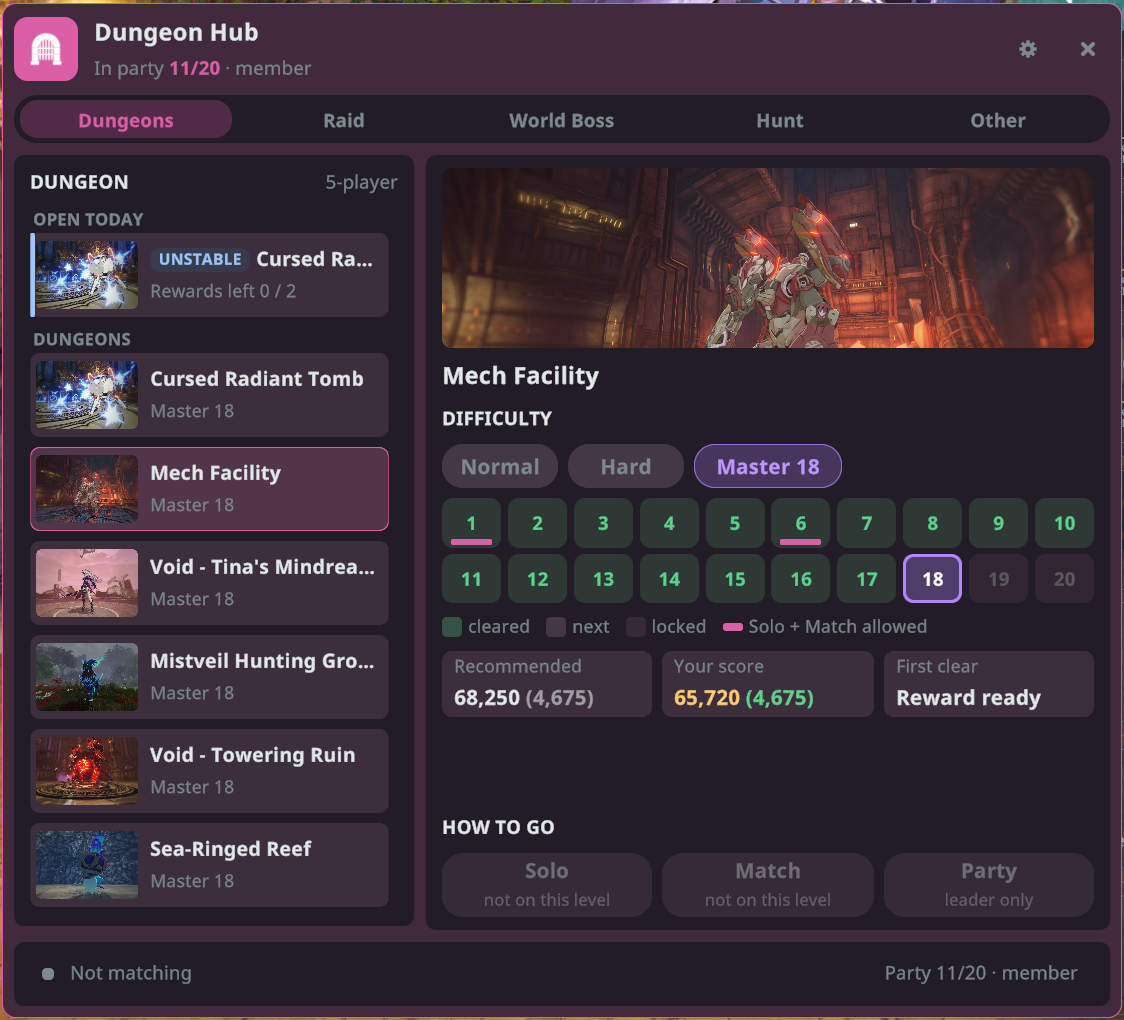
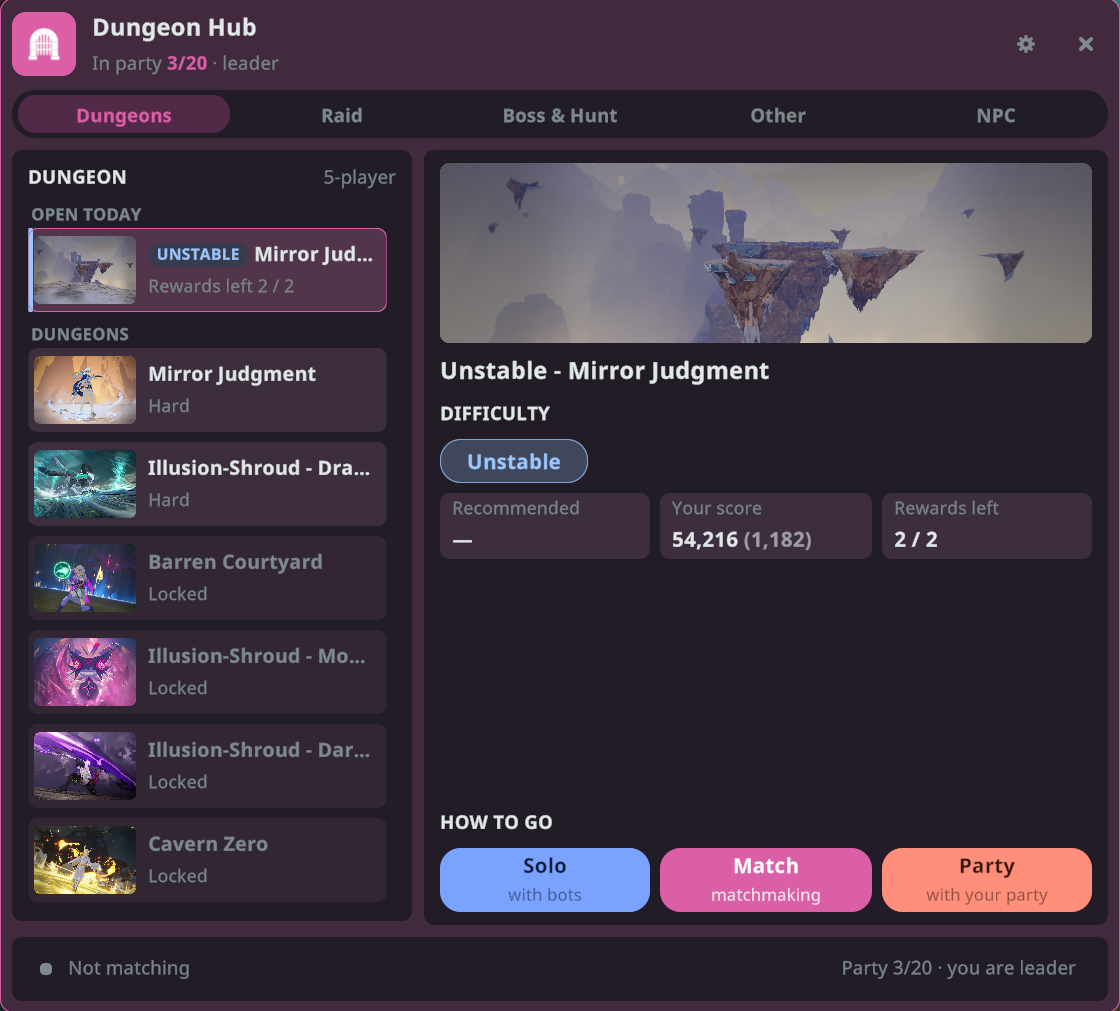
dungeonhub 1.1.0 — NPC tab, Boss & Hunt tab, 'Not this season' (#142)
* dungeonhub 1.1.0: NPC tab, Boss & Hunt tab, 'Not this season', Filipino wording (guides + media)

* dungeonhub 1.1.0: pin v1.1.0 (d443b4c)

diff --git a/plugins/dungeonhub/guide.th.md b/plugins/dungeonhub/guide.th.md
@@ -17,7 +17,7 @@
 
 ## เลือกดันเจี้ยน
 
-ศูนย์ดันเจี้ยนมี 5 แท็บ: **ดันเจี้ยน**, **เรด**, **เวิลด์บอส**, **ล่า** และ **อื่นๆ**
+ศูนย์ดันเจี้ยนมี 5 แท็บ: **ดันเจี้ยน**, **เรด**, **บอส & ล่า**, **อื่นๆ** และ **NPC**
 
 **ดันเจี้ยน**
 
@@ -47,12 +47,26 @@
 
 ปุ่มที่ใช้ไม่ได้ในตอนนี้จะเป็นสีเทา และมีบรรทัดด้านล่างบอกเหตุผล เช่น "ไม่ได้อยู่ในปาร์ตี้" หรือ "ต้องมีสมาชิก 3 คนขึ้นไป (มี 1) - ใช้จับคู่" เมื่ออยู่ในปาร์ตี้ มีแค่หัวหน้าปาร์ตี้ที่เริ่มเข้าดันเจี้ยนหรือเริ่มจับคู่ได้
 
-## เวิลด์บอส ล่า และอื่นๆ
+## บอส & ล่า และอื่นๆ
 
-- **เวิลด์บอส**: บอสของสัปดาห์นี้ รางวัลคงเหลือ อีเวนต์เปิดอยู่หรือไม่ และจะเปิดครั้งถัดไปเมื่อไร เวิลด์บอสใช้ได้เฉพาะ **จับคู่**
-- **ล่า**: การล่ารายสัปดาห์และ **ล่ากิลด์** เข้าล่ากิลด์จากที่นี่ได้เลย (ปกติหรือยาก, **เดี่ยว** หรือ **ปาร์ตี้**) เมื่อเปิดอยู่และคุณอยู่ในกิลด์
+- **บอส & ล่า**:
+  - **World Boss Crusade**: บอสของสัปดาห์นี้ รางวัลคงเหลือ อีเวนต์เปิดอยู่หรือไม่ และจะเปิดครั้งถัดไปเมื่อไร เวิลด์บอสใช้ได้เฉพาะ **จับคู่**
+  - **Stimen Vaults**: การล่ารายสัปดาห์
+  - **ล่ากิลด์**: เข้าจากที่นี่ได้เลย (ปกติหรือยาก, **เดี่ยว** หรือ **ปาร์ตี้**) เมื่อเปิดอยู่และคุณอยู่ในกิลด์
 - **อื่นๆ**: อันดับแรกคือ **งานสำนัก** รับเควสต์รายวัน ดูกิจกรรมของวันนี้และจำนวนที่ทำเสร็จแล้ว และกด **เข้า** กิจกรรมได้โดยตรง ปุ่ม **ไปที่บอร์ด** จะพาคุณไปที่บอร์ดของสำนักผู้บุกเบิก
 - กิจกรรมอื่นๆ มีปุ่ม **เปิด** ที่พาไปยังหน้าของกิจกรรมนั้นในเกม
+- กิจกรรมที่ไม่มีให้เล่นในซีซันนี้ (เช่น Slumberdream Valley) จะเป็นสีเทาและแสดงว่า **ไม่มีในซีซันนี้** และจะกลับมาเองเมื่อซีซันใหม่เพิ่มกิจกรรมนั้นอีกครั้ง
+
+## NPC
+
+![แท็บ NPC](media/npc.png)
+
+ใช้บริการของ NPC ได้จากทุกที่ โดยไม่ต้องเดินไปหา
+
+- เลือก NPC ทางซ้าย บริการแต่ละอย่างของ NPC นั้นจะมีปุ่ม **เปิด** ของตัวเองทางขวา
+- **ค้นหา NPC…** ด้านบนใช้หา NPC จากชื่อหรือจากสิ่งที่ NPC ทำ (เช่น "อุปกรณ์") กด **✕** เพื่อล้างการค้นหา
+- **ปักหมุด** จะย้าย NPC ไปไว้ในกลุ่ม **ปักหมุดไว้** ด้านบนสุดของรายการ พร้อมเครื่องหมาย ★ กด **ปักหมุดแล้ว** เพื่อเลิกปักหมุด หมุดของคุณจะถูกบันทึกไว้
+- บริการจากอีเวนต์จำกัดเวลาจะแสดงเฉพาะตอนที่อีเวนต์นั้นจัดอยู่ ถ้าบริการใดใช้ไม่ได้ในตอนนี้ จะมีข้อความบอกเหตุผล
 
 ## ยืนยันเข้าดันเจี้ยน
 
@@ -100,4 +114,5 @@
 ## หมายเหตุ
 
 - ศูนย์ดันเจี้ยนเปิดได้เฉพาะตอนที่คุณอยู่ในโลกของเกม และหน้าต่างจะปิดเมื่อคุณล็อกเอาต์
+- ระหว่างที่ศูนย์ดันเจี้ยนเปิดอยู่ เคอร์เซอร์เมาส์จะใช้งานได้อิสระ คุณจึงคลิกได้โดยไม่ต้องกดปุ่มค้างไว้
 - ถ้าหน้าต่างเล็กแสดงคำขอเข้าดันเจี้ยนไม่ได้ หน้าจอยืนยันของเกมจะปรากฏตามปกติ

diff --git a/plugins/dungeonhub/guide.fil.md b/plugins/dungeonhub/guide.fil.md
@@ -20,7 +20,7 @@ ginamit.
 
 ## Pagpili ng dungeon
 
-May limang tab ang hub: **Mga Dungeon**, **Raid**, **World Boss**, **Pangangaso** at **Iba pa**.
+May limang tab ang hub: **Mga Dungeon**, **Raid**, **Boss at Pangangaso**, **Iba pa** at **NPC**.
 
 **Mga Dungeon**
 
@@ -41,7 +41,7 @@ May limang tab ang hub: **Mga Dungeon**, **Raid**, **World Boss**, **Pangangaso*
 - **Inirerekomenda**: ang score na inirerekomenda ng laro para sa hirap na ito.
 - **Iyong score**: berde kapag naabot mo ang rekomendasyon, dilaw kapag kulang pa.
 - **Unang clear**: kung naghihintay pa ang premyo ng unang clear (**Handang kunin**) o **Nakuha na**.
-- **Premyo**: ilang beses ka pang may makukuhang premyo. Kahit 0 na, puwede ka pa ring pumasok, wala ka lang
+- **Natitirang premyo**: ilang beses ka pang may makukuhang premyo. Kahit 0 na, puwede ka pa ring pumasok, wala ka lang
   makukuhang premyo.
 
 ## Paano pumasok
@@ -57,16 +57,34 @@ Kulay-abo ang button kapag hindi ito magagamit ngayon, at sinasabi ng linya sa i
 "wala sa party" o "kailangan ng 3+ sa party (may 1 ka) - gamitin ang Match". Sa isang party, ang leader lang ang
 puwedeng magsimula ng pagpasok o ng Match.
 
-## World Boss, Pangangaso at Iba pa
+## Boss at Pangangaso at Iba pa
 
-- **World Boss**: ang boss ngayong linggo, natitirang premyo mo, kung bukas ang event at kailan ito susunod na
-  bubukas. **Match** lang ang puwede sa World Boss.
-- **Pangangaso**: ang lingguhang hunt at ang **Guild Hunt**. Puwedeng pasukin ang Guild Hunt mula rito (Normal o
-  Mahirap, **Solo** o **Party**) habang bukas ito at nasa guild ka.
+- **Boss at Pangangaso**:
+  - **World Boss Crusade**: ang boss ngayong linggo, natitirang premyo mo, kung bukas ang event at kailan ito
+    susunod na bubukas. **Match** lang ang puwede sa World Boss.
+  - **Stimen Vaults**, ang lingguhang hunt.
+  - **Guild Hunt**: puwedeng pasukin mula rito (Normal o Mahirap, **Solo** o **Party**) habang bukas ito at nasa
+    guild ka.
 - **Iba pa**: nauuna ang **Bureau Commissions**. Tanggapin ang daily quest, tingnan ang mga event ngayon at kung ilan
   na ang natapos, at direktang **Pumasok** sa isang event. Dadalhin ka ng **Pumunta sa board** sa board ng Pioneer
   Bureau.
 - May button na **Buksan** ang iba pang activity na magbubukas ng sariling page nito sa laro.
+- Ang activity na walang malalaro ngayong season (halimbawa ang Slumberdream Valley) ay kulay-abo at may nakasulat
+  na **Wala ngayong season**. Kusa itong babalik kapag idinagdag ulit ito ng isang season.
+
+## NPC
+
+![Tab ng NPC](media/npc.png)
+
+Gamitin ang mga serbisyo ng isang NPC kahit saan, nang hindi naglalakad papunta sa kanila.
+
+- Pumili ng NPC sa kaliwa. May sariling button na **Buksan** ang bawat serbisyo nila sa kanan.
+- Ang **Maghanap ng NPC…** sa itaas ay naghahanap ng NPC ayon sa pangalan o sa ginagawa nila (halimbawa "Gear").
+  Binubura ng **✕** ang paghahanap.
+- Inilalagay ng **I-pin** ang isang NPC sa grupong **NAKA-PIN** sa itaas ng listahan, may markang ★. Pindutin ang
+  **Naka-pin** para i-unpin. Nase-save ang mga pin mo.
+- Lumalabas lang ang mga serbisyo mula sa isang limited-time event habang tumatakbo ang event. Kapag hindi magagamit
+  ngayon ang isang serbisyo, may mensaheng magsasabi kung bakit.
 
 ## Kumpirmasyon sa Dungeon
 
@@ -125,4 +143,5 @@ Parehong walang naka-bind na key sa simula. Mag-assign ng key sa **Settings ng S
 ## Mga Paalala
 
 - Bumubukas lang ang Dungeon Hub habang nasa mundo ka ng laro, at nagsasara ang mga window nito kapag nag-log out ka.
+- Habang bukas ang hub, malaya ang mouse cursor mo, kaya puwede kang mag-click nang hindi pumipindot ng key.
 - Kapag hindi maipakita ng maliit na window ang isang entry request, lalabas gaya ng dati ang confirm screen ng laro.

diff --git a/plugins/dungeonhub/guide.ja.md b/plugins/dungeonhub/guide.ja.md
@@ -17,7 +17,7 @@
 
 ## ダンジョンを選ぶ
 
-ハブには5つのタブがあります：**ダンジョン**、**レイド**、**ワールドボス**、**討伐**、**その他**。
+ハブには5つのタブがあります：**ダンジョン**、**レイド**、**ボス・討伐**、**その他**、**NPC**。
 
 **ダンジョン**
 
@@ -47,12 +47,26 @@
 
 今使えないボタンはグレーになり、その下に理由が表示されます。たとえば「パーティー未参加」や「パーティー3人以上が必要です (現在1人) - マッチングを使ってください」などです。パーティーでは、入場やマッチングを始められるのはリーダーだけです。
 
-## ワールドボス・討伐・その他
+## ボス・討伐とその他
 
-- **ワールドボス**：今週のボス、残り報酬、イベントが開いているか、次にいつ開くかがわかります。ワールドボスは**マッチング**のみです。
-- **討伐**：週間の討伐と**ギルド討伐**。ギルド討伐は、開いていてギルドに入っていれば、ここから入場できます（ノーマルまたはハード、**ソロ**または**パーティー**）。
+- **ボス・討伐**：
+  - **World Boss Crusade**：今週のボス、残り報酬、イベントが開いているか、次にいつ開くかがわかります。ワールドボスは**マッチング**のみです。
+  - **Stimen Vaults**：週間の討伐です。
+  - **ギルド討伐**：開いていてギルドに入っていれば、ここから入場できます（ノーマルまたはハード、**ソロ**または**パーティー**）。
 - **その他**：最初は**開拓局の依頼**です。デイリークエストを受注し、今日のイベントといくつ終わったかを確認して、イベントに直接**入場**できます。**掲示板へ行く**を押すと、開拓局の掲示板へ向かいます。
 - そのほかのアクティビティには**開く**ボタンがあり、ゲーム本体のそのアクティビティのページが開きます。
+- 今シーズンに遊べる内容がないアクティビティ（たとえばSlumberdream Valley）はグレーになり、**今シーズンなし**と表示されます。シーズンで再び追加されると、自動で元に戻ります。
+
+## NPC
+
+![NPCタブ](media/npc.png)
+
+NPCのところまで歩いて行かなくても、どこからでもNPCのサービスを使えます。
+
+- 左でNPCを選びます。右側に、そのNPCのサービスごとの**開く**ボタンが並びます。
+- 上の**NPCを検索…**で、名前や役割（たとえば「装備」）からNPCを探せます。**✕**で検索をクリアします。
+- **ピン留め**を押すと、そのNPCがリスト上部の**ピン留め**グループに★つきで入ります。**ピン留め中**を押すとピン留めを外します。ピン留めは保存されます。
+- 期間限定イベントのサービスは、そのイベントの開催中だけ表示されます。今使えないサービスは、メッセージで理由が表示されます。
 
 ## 入場確認
 
@@ -100,4 +114,5 @@
 ## 補足
 
 - ダンジョンハブはワールドにいるときだけ開けます。ログアウトするとウィンドウは閉じます。
+- ハブを開いている間はマウスカーソルが自由に動くので、キーを押し続けなくてもクリック操作できます。
 - 小さなウィンドウで入場の確認を表示できなかったときは、いつもどおりゲーム本体の確認画面が表示されます。

diff --git a/plugins/dungeonhub/guide.ko.md b/plugins/dungeonhub/guide.ko.md
@@ -17,7 +17,7 @@
 
 ## 던전 고르기
 
-허브에는 탭이 다섯 개 있습니다: **던전**, **레이드**, **월드 보스**, **토벌**, **기타**.
+허브에는 탭이 다섯 개 있습니다: **던전**, **레이드**, **보스 & 토벌**, **기타**, **NPC**.
 
 **던전**
 
@@ -47,12 +47,26 @@
 
 지금 쓸 수 없는 버튼은 회색이 되고, 그 아래에 이유가 나옵니다. 예를 들어 "파티 없음"이나 "파티원 3명 이상 필요 (현재 1명) - 매칭을 이용하세요" 같은 식입니다. 파티에서는 파티장만 입장이나 매칭을 시작할 수 있습니다.
 
-## 월드 보스, 토벌, 기타
+## 보스 & 토벌, 기타
 
-- **월드 보스**: 이번 주 보스, 남은 보상, 이벤트가 열려 있는지, 다음에 언제 열리는지 보여 줍니다. 월드 보스는 **매칭**만 가능합니다.
-- **토벌**: 주간 토벌과 **길드 토벌**. 길드 토벌은 열려 있고 길드에 가입되어 있으면 여기서 바로 입장할 수 있습니다(노멀 또는 하드, **솔로** 또는 **파티**).
+- **보스 & 토벌**:
+  - **World Boss Crusade**: 이번 주 보스, 남은 보상, 이벤트가 열려 있는지, 다음에 언제 열리는지 보여 줍니다. 월드 보스는 **매칭**만 가능합니다.
+  - **Stimen Vaults**: 주간 토벌입니다.
+  - **길드 토벌**: 열려 있고 길드에 가입되어 있으면 여기서 바로 입장할 수 있습니다(노멀 또는 하드, **솔로** 또는 **파티**).
 - **기타**: 맨 위는 **개척국 의뢰**입니다. 일일 퀘스트를 수락하고, 오늘의 이벤트와 완료한 개수를 확인하고, 이벤트에 바로 **입장**할 수 있습니다. **게시판으로 이동**을 누르면 개척국 게시판으로 갑니다.
 - 나머지 활동에는 **열기** 버튼이 있어서 게임의 해당 활동 페이지를 엽니다.
+- 이번 시즌에 즐길 내용이 없는 활동(예: Slumberdream Valley)은 회색으로 표시되고 **이번 시즌 없음**이라고 나옵니다. 시즌에 다시 추가되면 저절로 돌아옵니다.
+
+## NPC
+
+![NPC 탭](media/npc.png)
+
+NPC에게 걸어가지 않아도 어디서든 NPC의 서비스를 이용할 수 있습니다.
+
+- 왼쪽에서 NPC를 고릅니다. 오른쪽에 그 NPC의 서비스마다 **열기** 버튼이 있습니다.
+- 위쪽의 **NPC 검색…**으로 이름이나 하는 일(예: "장비")로 NPC를 찾을 수 있습니다. **✕**를 누르면 검색이 지워집니다.
+- **고정**을 누르면 그 NPC가 목록 맨 위의 **고정됨** 그룹에 ★ 표시와 함께 들어갑니다. **고정됨** 버튼을 누르면 고정이 풀립니다. 고정한 NPC는 저장됩니다.
+- 기간 한정 이벤트의 서비스는 이벤트가 진행 중일 때만 표시됩니다. 지금 쓸 수 없는 서비스는 메시지로 이유를 알려 줍니다.
 
 ## 입장 확인
 
@@ -100,4 +114,5 @@
 ## 참고
 
 - 던전 허브는 월드에 있을 때만 열리며, 로그아웃하면 창이 닫힙니다.
+- 허브가 열려 있는 동안에는 마우스 커서가 자유로워서, 키를 누르고 있지 않아도 클릭할 수 있습니다.
 - 작은 창으로 입장 요청을 표시하지 못하면, 평소처럼 게임의 입장 확인 화면이 나옵니다.

diff --git a/plugins/dungeonhub/guide.id.md b/plugins/dungeonhub/guide.id.md
@@ -20,7 +20,7 @@ di tab yang terakhir Anda pakai.
 
 ## Memilih dungeon
 
-Ada lima tab: **Dungeon**, **Raid**, **World Boss**, **Perburuan**, dan **Lainnya**.
+Ada lima tab: **Dungeon**, **Raid**, **Bos & Perburuan**, **Lainnya**, dan **NPC**.
 
 **Dungeon**
 
@@ -56,15 +56,33 @@ Tombol menjadi abu-abu kalau saat ini tidak bisa dipakai, dan baris di bawahnya 
 "tidak dalam party" atau "butuh 3+ anggota party (ada 1) - gunakan Cari Tim". Dalam party, hanya ketua yang bisa
 memulai masuk atau Cari Tim.
 
-## World Boss, Perburuan, dan Lainnya
+## Bos & Perburuan dan Lainnya
 
-- **World Boss**: boss minggu ini, sisa hadiah Anda, apakah event sedang buka, dan kapan buka berikutnya. World
-  Boss hanya bisa lewat **Cari Tim**.
-- **Perburuan**: perburuan mingguan dan **Perburuan Guild**. Perburuan Guild bisa dimasuki dari sini (Normal atau
-  Sulit, **Solo** atau **Party**) selama sedang buka dan Anda punya guild.
+- **Bos & Perburuan**:
+  - **World Boss Crusade**: boss minggu ini, sisa hadiah Anda, apakah event sedang buka, dan kapan buka
+    berikutnya. World Boss hanya bisa lewat **Cari Tim**.
+  - **Stimen Vaults**, perburuan mingguan.
+  - **Perburuan Guild**: bisa dimasuki dari sini (Normal atau Sulit, **Solo** atau **Party**) selama sedang buka
+    dan Anda punya guild.
 - **Lainnya**: yang pertama adalah **Komisi Biro**. Ambil misi hariannya, lihat event hari ini dan berapa yang sudah
   selesai, lalu **Masuk** ke event secara langsung. **Pergi ke papan** membawa Anda ke papan Biro Perintis.
 - Aktivitas lainnya punya tombol **Buka** yang membuka halaman aktivitas itu di game.
+- Aktivitas yang tidak punya konten musim ini (misalnya Slumberdream Valley) menjadi abu-abu dan bertuliskan
+  **Tidak ada musim ini**. Aktivitas itu kembali dengan sendirinya saat sebuah musim menambahkannya lagi.
+
+## NPC
+
+![Tab NPC](media/npc.png)
+
+Pakai layanan NPC dari mana saja, tanpa perlu berjalan ke tempatnya.
+
+- Pilih NPC di kiri. Setiap layanannya punya tombol **Buka** sendiri di kanan.
+- **Cari NPC…** di bagian atas menemukan NPC berdasarkan nama atau perannya (misalnya "Gear"). **✕** menghapus
+  pencarian.
+- **Sematkan** memasukkan NPC ke grup **DISEMATKAN** di bagian atas daftar, ditandai ★. Tekan **Disematkan** untuk
+  melepasnya. Sematan Anda tersimpan.
+- Layanan dari event terbatas hanya muncul selama event berlangsung. Kalau sebuah layanan tidak bisa dipakai saat
+  ini, pesan akan menjelaskan alasannya.
 
 ## Konfirmasi Dungeon
 
@@ -122,4 +140,5 @@ Keduanya belum diikat ke tombol. Atur tombolnya di **Pengaturan Stellar → Hotk
 ## Catatan
 
 - Pusat Dungeon hanya bisa dibuka saat Anda berada di dunia game, dan jendelanya tertutup saat Anda logout.
+- Selama Pusat Dungeon terbuka, kursor mouse tetap bebas, jadi Anda bisa mengklik tanpa menahan tombol apa pun.
 - Kalau jendela kecil tidak bisa menampilkan permintaan masuk, layar konfirmasi game muncul seperti biasa.

diff --git a/plugins/dungeonhub/guide.md b/plugins/dungeonhub/guide.md
@@ -20,7 +20,7 @@ tab you used last.
 
 ## Choosing a dungeon
 
-The hub has five tabs: **Dungeons**, **Raid**, **World Boss**, **Hunt** and **Other**.
+The hub has five tabs: **Dungeons**, **Raid**, **Boss & Hunt**, **Other** and **NPC**.
 
 **Dungeons**
 
@@ -55,15 +55,33 @@ A button is greyed out when it can't be used right now, and the line under it sa
 "not in a party" or "needs 3+ in the party (you have 1) - use Match". In a party, only the leader can start
 an entry or a match.
 
-## World Boss, Hunt and Other
+## Boss & Hunt and Other
 
-- **World Boss**: this week's boss, your rewards left, whether the event is open and when it opens next.
-  World Boss is **Match** only.
-- **Hunt**: the weekly hunt and **Guild Hunt**. Guild Hunt can be entered from here (Normal or Hard,
-  **Solo** or **Party**) while it is open and you're in a guild.
+- **Boss & Hunt**:
+  - **World Boss Crusade**: this week's boss, your rewards left, whether the event is open and when it opens
+    next. World Boss is **Match** only.
+  - **Stimen Vaults**, the weekly hunt.
+  - **Guild Hunt**: can be entered from here (Normal or Hard, **Solo** or **Party**) while it is open and
+    you're in a guild.
 - **Other**: **Bureau Commissions** comes first. Accept the daily quest, see today's events and how many are
   done, and **Enter** an event directly. **Go to the board** takes you to the Pioneer Bureau board.
 - The remaining activities have an **Open** button that takes you to the game's own page for them.
+- An activity with nothing to play this season (for example Slumberdream Valley) is greyed out and says
+  **Not this season**. It comes back by itself when a season adds it again.
+
+## NPC
+
+![NPC tab](media/npc.png)
+
+Use an NPC's services from anywhere, without walking to them.
+
+- Pick an NPC on the left. Each of their services has its own **Open** button on the right.
+- **Search NPC…** at the top finds an NPC by name or by what they do (for example "Gear"). **✕** clears the
+  search.
+- **Pin** puts an NPC in a **PINNED** group at the top of the list, marked with a ★. Press **Pinned** to
+  unpin. Your pins are saved.
+- Services from a limited-time event only show while the event is running. If a service can't be used right
+  now, a message tells you why.
 
 ## Dungeon Confirm
 
@@ -120,4 +138,5 @@ Both start unbound. Assign a key in **Stellar Settings → Hotkeys**:
 ## Notes
 
 - Dungeon Hub opens only while you're in the world, and its windows close when you log out.
+- While the hub is open, your mouse cursor stays free, so you can click around without holding a key.
 - If the small window can't show an entry request, the game's own confirm screen appears as usual.
